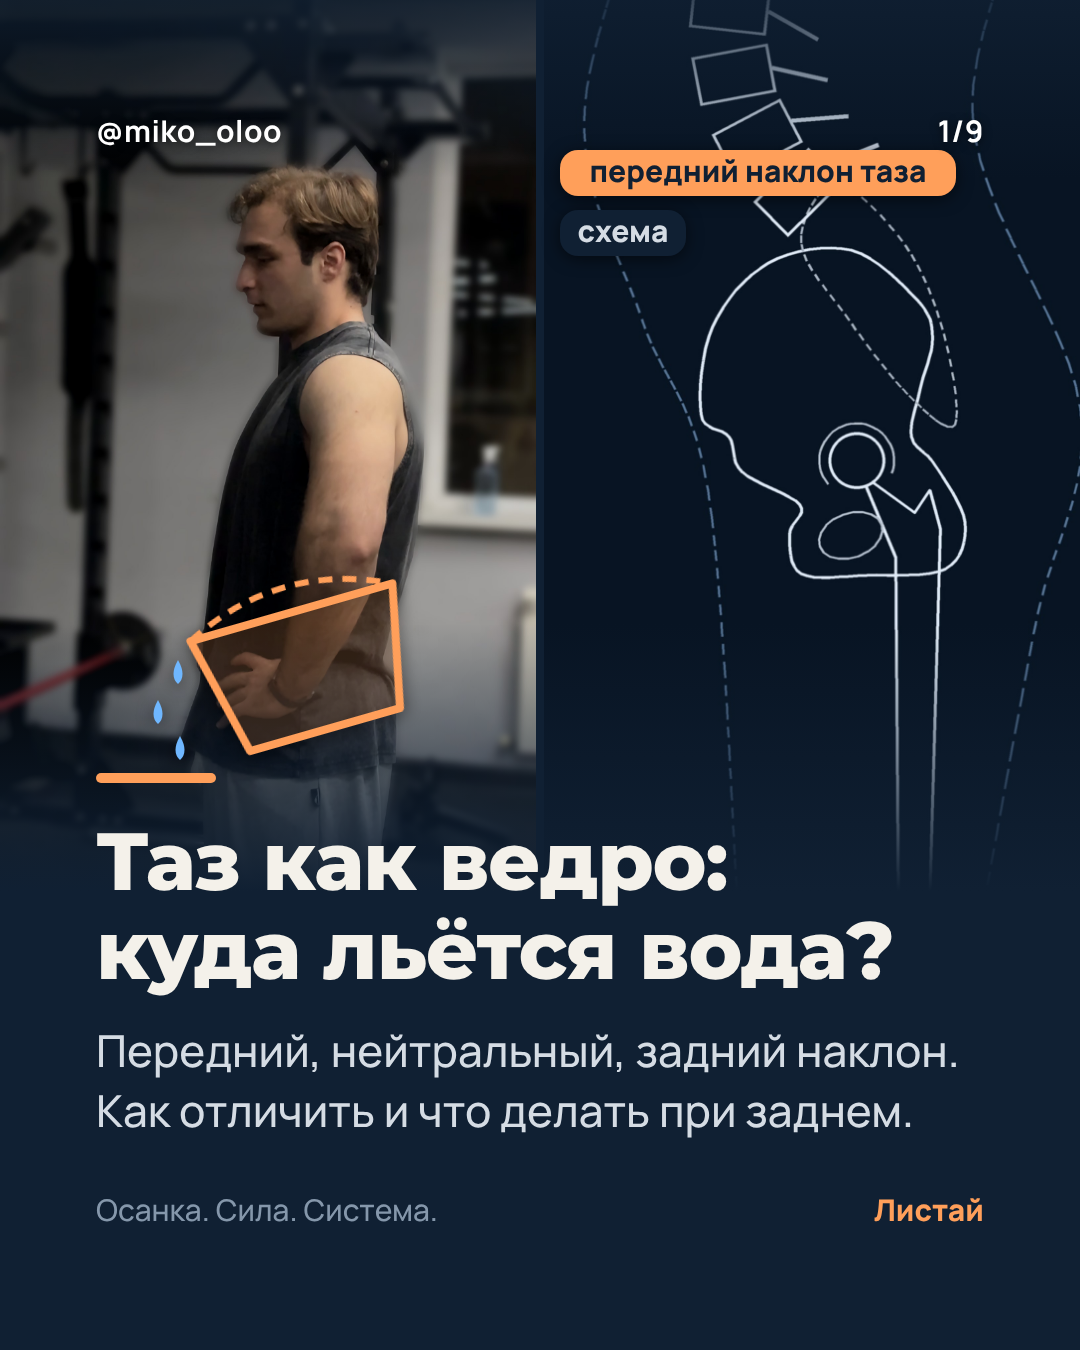
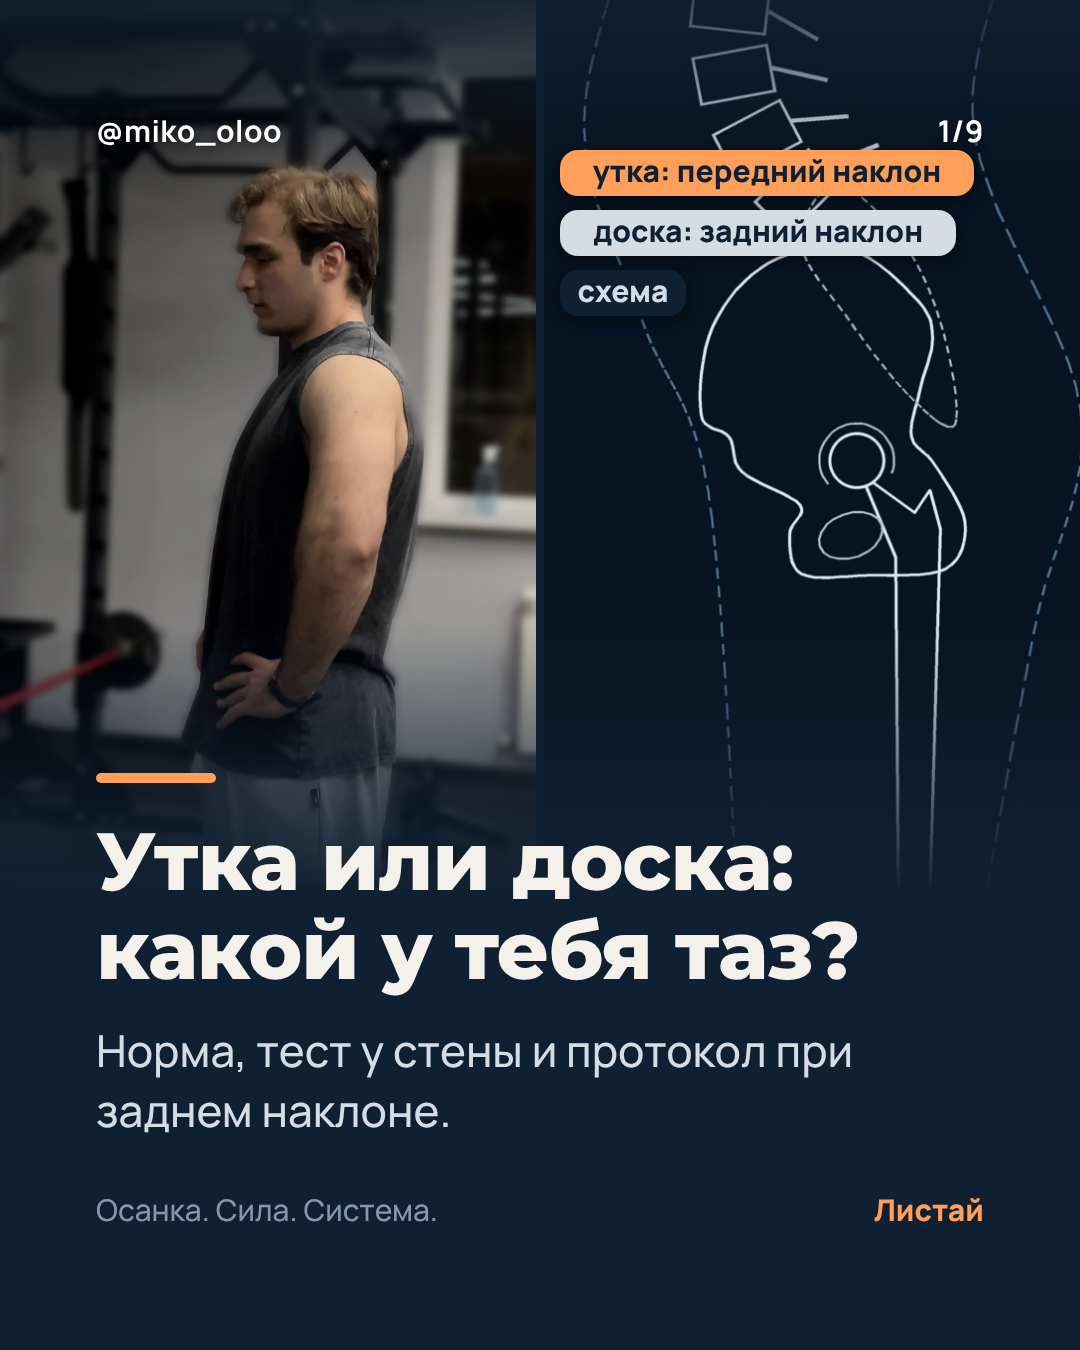
c8: хук hook-master "Утка или доска: какой у тебя таз?"
Claude-Session: https://claude.ai/code/session_014b6iEBjPGyacsH4fnBbVwQ

diff --git a/content/carousels/build_c8.py b/content/carousels/build_c8.py
@@ -71,7 +71,7 @@ def slides():
               f'<path d="M{cx - 105:.0f} {cy - 60:.0f} L{cx + 105:.0f} {cy - 60:.0f} L{cx + 78:.0f} {cy + 62:.0f} L{cx - 78:.0f} {cy + 62:.0f} Z" fill="{A}" fill-opacity=".18" stroke="{A}" stroke-width="8" stroke-linejoin="round"/>'
               f'<path d="M{cx - 105:.0f} {cy - 60:.0f} Q{cx:.0f} {cy - 112:.0f} {cx + 105:.0f} {cy - 60:.0f}" fill="none" stroke="{A}" stroke-width="6" stroke-dasharray="14 10"/></g>')
     drops = ''.join(f'<path d="M{x:.0f} {y:.0f} q-9 16 0 24 q9 -8 0 -24z" fill="{BLUE}" {b.SH}/>' for x, y in ((cx - 130, cy - 10), (cx - 150, cy + 30), (cx - 128, cy + 66)))
-    cover = svg(*b1, bucket, drops, pill(560, 150, 'передний наклон таза', A, BG, 30), pill(560, 210, 'схема', BG, SOFT, 30))
+    cover = svg(*b1, pill(560, 150, 'утка: передний наклон', A, BG, 30), pill(560, 210, 'доска: задний наклон', SOFT, BG, 30), pill(560, 270, 'схема', BG, SOFT, 30))
     # 2. ориентиры на нейтральном тазу (блок 1080x837, схема y 640-1477)
     b2 = (W, 837)
     s = lambda x, y: (x, (y - 640))
@@ -140,7 +140,7 @@ def slides():
     added = svg(W, 1350, *ad)
     return [
         {'layout': 'photo-top', 'photoHeight': 66, 'big': True, 'photo': 'src/c8_cover.jpg', 'focus': '50% 50%', 'photo2': 'src/c8_cover_sch.jpg', 'focus2': '50% 45%',
-         'title': 'Таз как ведро:\nкуда льётся вода?', 'body': 'Передний, нейтральный, задний наклон. Как отличить и что делать при заднем.', 'marks': [cover]},
+         'title': 'Утка или доска:\nкакой у тебя таз?', 'body': 'Норма, тест у стены и протокол при заднем наклоне.', 'marks': [cover]},
         {'layout': 'photo-top', 'photoHeight': 62, 'photo': 'src/c8_neutral.jpg', 'focus': '50% 50%',
          'title': 'Ориентиры: две подвздошные ости', 'body': 'Передняя верхняя подвздошная ость прощупывается спереди на крыле таза, задняя верхняя под ямочками над крестцом. Угол между линией от задней ости к передней и горизонталью и есть наклон таза.', 'marks': [lm]},
         {'layout': 'big-number', 'photo': 'src/bg_grid.jpg', 'focus': '50% 50%',

diff --git a/content/PLAN_IG_19-25_11.md b/content/PLAN_IG_19-25_11.md
@@ -8,7 +8,7 @@
 | Пн 23.11, 10:00 | c7 "Качаешь пресс, а устаёт шея?", 8 слайдов: кадры Микаела с пометками на теле, краниовертебральный угол, точки протокола, ОСАНКА в подписи | готова 18.11, ждёт ок |
 | Пт 20.11, 10:00 | c5 "Спал 4 часа? Тяжёлого дня не будет", 8 слайдов | одобрена 18.11, финал заменён, стоит в Metricool |
 | пауза | c6 "Жму 170 кг. Протеин пью 2 раза" | фитнес на паузе (решение 18.11) |
-| Ср 25.11, 10:00 | c8 "Таз как ведро: куда льётся вода?" (наклон таза, протокол при заднем), 9 слайдов | готова 19.11, проверка |
+| Ср 25.11, 10:00 | c8 "Утка или доска: какой у тебя таз?" (наклон таза, протокол при заднем), 9 слайдов | готова 19.11, проверка |
 | Пт 27.11, 10:00 | c9 "Протрузия у трети 20-летних без боли" (разбор заключения МРТ) | текст готов, ждём ответы Микаела по слайдам 7-8 |
 | вечер 18:00, как только запишет голос | Рилс "Живот выпирает, хотя жира мало" | монтаж на улучшенных кадрах готов, ждём голос |
 
